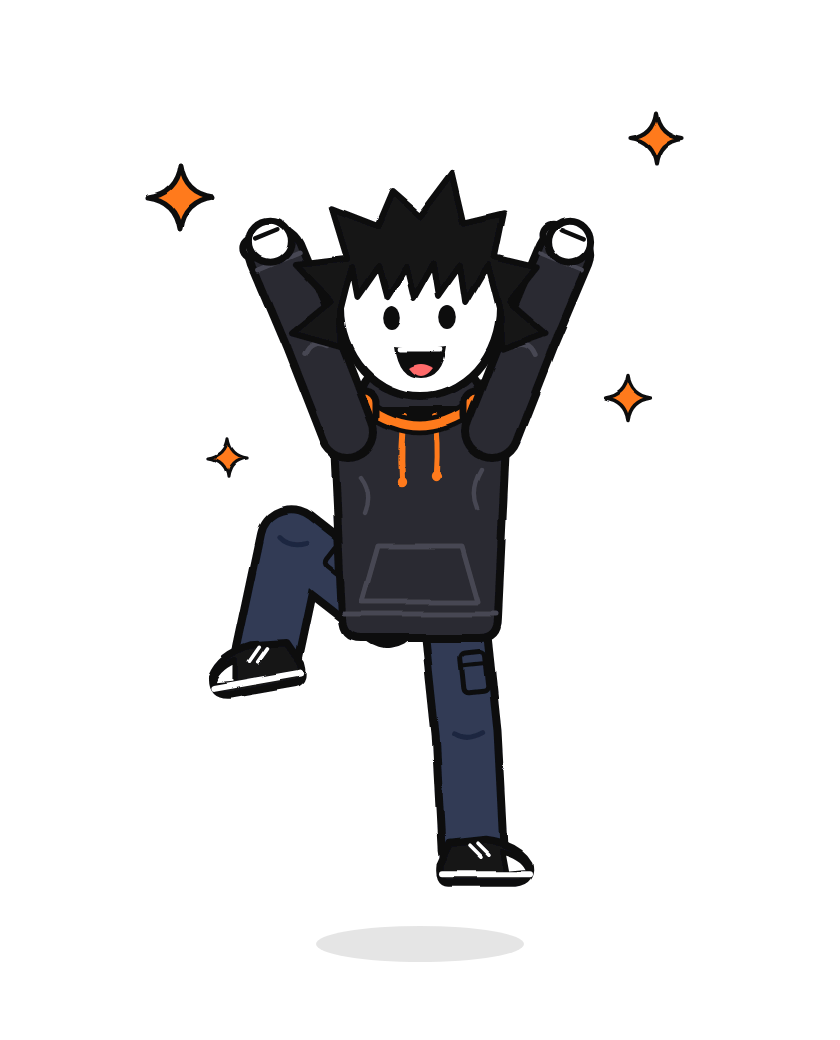
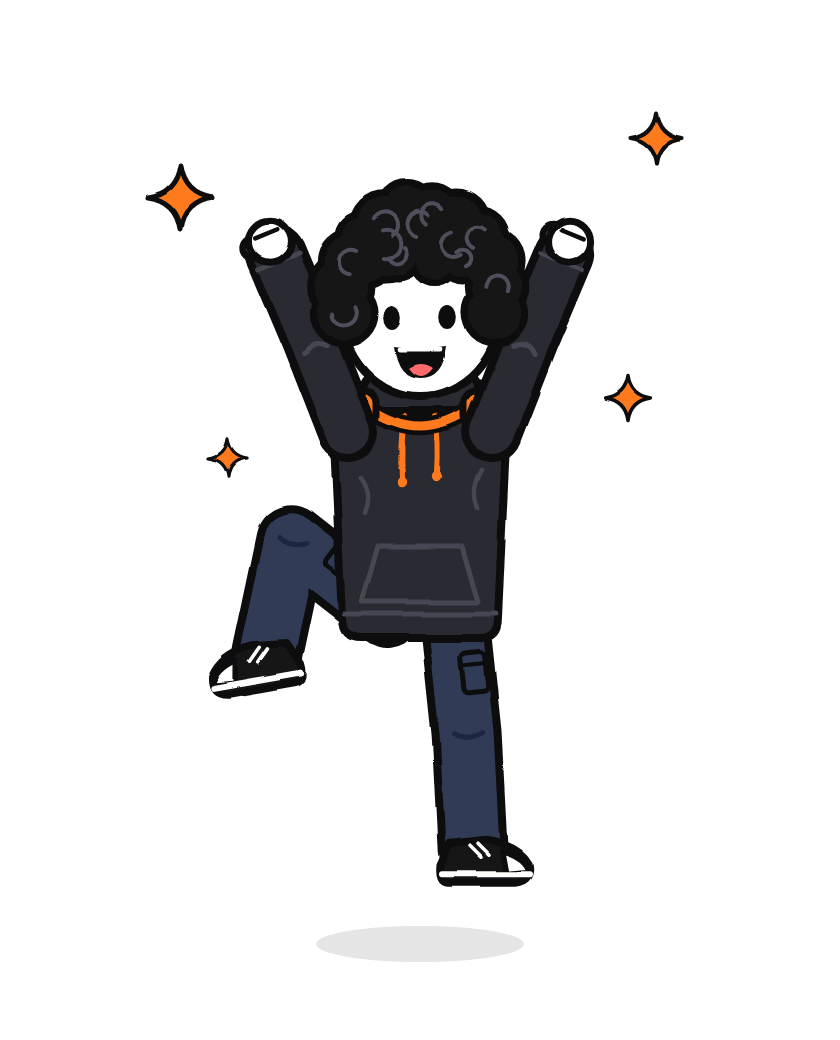
Kai: swap spiky hair for loose curls
Claude-Session: https://claude.ai/code/session_014Kvo37gLT7oF5mVPRpq8oM

Changed region(s): [[0.3405, 0.1538, 0.65, 0.3385], [0.3405, 0.2462, 0.3714, 0.2769]]

diff --git a/assets/characters/kai/README.md b/assets/characters/kai/README.md
@@ -1,6 +1,6 @@
 # Kai — channel mascot
 
-A hand-drawn kid in a hoodie (spiky black hair, black hoodie, navy cargo pants,
+A hand-drawn kid in a hoodie (loose curly black hair, black hoodie, navy cargo pants,
 sneakers). His signature details are **orange headphones resting on his neck and orange
 hoodie drawstrings**. He's built as a **poseable SVG rig**, so you don't need an AI model, an
 API key, or a subscription to use him.
